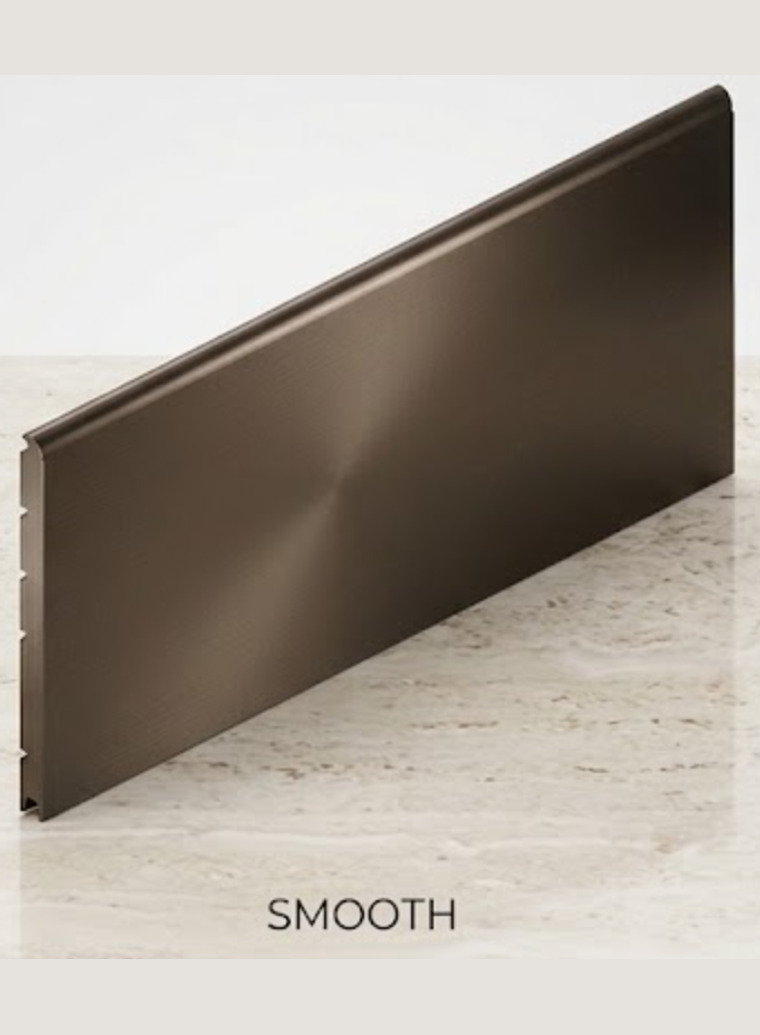
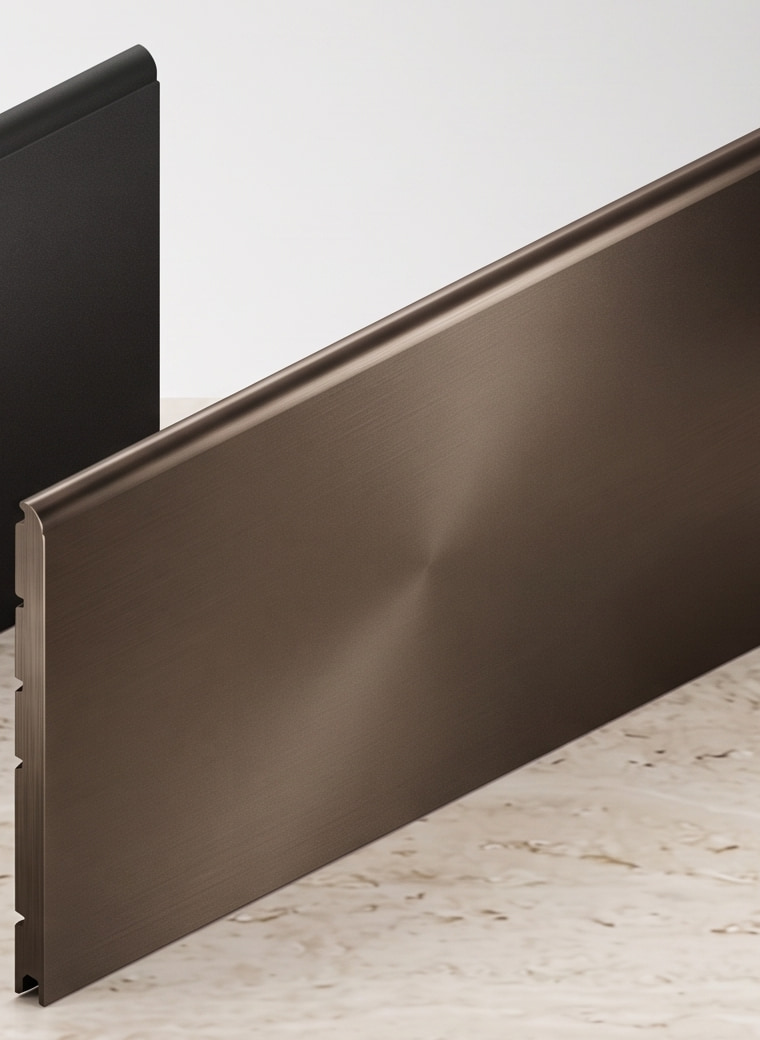
Profilering los van afwerking, 60mm-bug, maatgrenzen per model
Fix: 60 mm was altijd geblokkeerd. Het data-attribuut werd met <%= %>
uitgevoerd, dus de aanhalingstekens kwamen als &#34; in de HTML terecht
en getAttribute gaf "D-GATE terug in plaats van D-GATE U. Nu met <% if %>
geschreven zodat het attribuut klopt.

Profilering (F/L/V) is weer een eigen keuze en stuurt de preview aan.
Afwerking (Smooth/Woodgrain/Deep Mat) is het oppervlak en verandert de
preview bewust niet meer - dat was verwarrend.

Paneelfoto's opnieuw uit panele.png gesneden met identieke kaders van
760x1040 op bronresolutie. De vorige kwamen uit schermafbeeldingen van
543-726 px die naar 760 werden opgeschaald; vandaar de zachte weergave.
Gelijke kaders plus aspect-ratio en object-fit laten de tegels uitlijnen.

Maximale maten per model (T 450x250, B 600x300, U 600x350) zijn nu
onderdeel van het bestelproces: tegels die niet passen bij de ingevulde
maat worden uitgeschakeld, en komt er toch een niet-passende aanvraag
binnen dan staat er een waarschuwing in de aanvraagmail. De aanvraag
wordt niet geweigerd.

Modelrenders op /modellen naar max 480px, de helft van de bronbreedte,
zodat ze op retina-schermen niet zacht ogen.

diff --git a/server.js b/server.js
@@ -7,7 +7,7 @@ const { offerteIntern, offerteBevestiging } = require('./emails');
 
 const app = express();
 const PORT = process.env.PORT || 3000;
-const SITE_VERSION = '1.11.0'; // cache-busting ?v=
+const SITE_VERSION = '1.13.0'; // cache-busting ?v=
 
 app.set('view engine', 'ejs');
 app.set('views', path.join(__dirname, 'views'));
@@ -143,6 +143,7 @@ app.use((req, res, next) => {
 const modellen = [
   {
     slug: 'd-gate-u',
+    maxCm: { breedte: 600, hoogte: 350 }, // grens uit de Drutex-specificatie
     afb: '/img/d-gate-u.jpg',
     detail: '/img/d-gate-u-detail.jpg', // close-up van het veersysteem, verschijnt bij hover
     naam: 'D-GATE U',
@@ -161,6 +162,7 @@ const modellen = [
   },
   {
     slug: 'd-gate-b',
+    maxCm: { breedte: 600, hoogte: 300 }, // grens uit de Drutex-specificatie
     afb: '/img/d-gate-b.jpg',
     detail: '/img/d-gate-b-detail.jpg', // close-up van het veersysteem, verschijnt bij hover
     naam: 'D-GATE B',
@@ -177,6 +179,7 @@ const modellen = [
   },
   {
     slug: 'd-gate-t',
+    maxCm: { breedte: 450, hoogte: 250 }, // grens uit de Drutex-specificatie
     afb: '/img/d-gate-t.jpg',
     detail: '/img/d-gate-t-detail.jpg', // close-up van het veersysteem, verschijnt bij hover
     naam: 'D-GATE T',
@@ -244,10 +247,19 @@ function zoekKleurHex(tekst) {
 // Paneelafwerking volgens de Drutex-brochure: de structuur ís het reliëf.
 // Woodgrain = low embossing, Deep Mat = high embossing, Smooth = zonder reliëf.
 // Daarom één keuze in plaats van twee; `profiel` stuurt de SVG-preview aan.
+// Oppervlak van het paneel — bepaalt hoe het paneel aanvoelt en oogt.
 const AFWERKINGEN = [
-  { naam: 'Smooth', code: 'F', kort: 'Vlak paneel, zonder reliëf', afb: '/img/paneel-glad.jpg', profiel: 'glad' },
-  { naam: 'Woodgrain', code: 'L', kort: 'Fijne houtnerf, laag reliëf', afb: '/img/paneel-woodgrain.jpg', profiel: 'laag' },
-  { naam: 'Deep Mat', code: 'V', kort: 'Diep mat, hoog reliëf', afb: '/img/paneel-deepmat.jpg', profiel: 'hoog' }
+  { naam: 'Smooth', kort: 'Glad oppervlak', afb: '/img/paneel-glad.jpg' },
+  { naam: 'Woodgrain', kort: 'Houtnerfstructuur', afb: '/img/paneel-woodgrain.jpg' },
+  { naam: 'Deep Mat', kort: 'Diep matte structuur', afb: '/img/paneel-deepmat.jpg' }
+];
+
+// Profilering = de groeven in het paneel. Dit is wat je op de deur zíet,
+// dus dit stuurt de preview aan (zie public/js/main.js).
+const PROFILERINGEN = [
+  { naam: 'Zonder profilering', code: 'F', profiel: 'glad' },
+  { naam: 'Lage profilering', code: 'L', profiel: 'laag' },
+  { naam: 'Hoge profilering', code: 'V', profiel: 'hoog' }
 ];
 
 // 60 mm panelen zijn alleen leverbaar op de D-GATE U. `alleenModel` legt dat vast:
@@ -265,7 +277,8 @@ app.get('/kleuren', (req, res) => res.render('kleuren', { kleuren, page: 'kleure
 function toonFormulier(res, { status = 200, fout = null, waarden = {} } = {}) {
   res.status(status).render('offerte', {
     page: 'offerte', verzonden: false, fout, waarden,
-    kleuren, modellen, afwerkingen: AFWERKINGEN, diktes: DIKTES, som: maakSom()
+    kleuren, modellen, afwerkingen: AFWERKINGEN, profileringen: PROFILERINGEN,
+    diktes: DIKTES, som: maakSom()
   });
 }
 
@@ -366,6 +379,7 @@ app.post('/offerte', async (req, res) => {
     model: uitLijst(nette(d.model), modellen.map(m => `${m.naam} (${m.sub.toLowerCase()})`)),
     dikte: uitLijst(nette(d.dikte), DIKTES.map(x => x.naam)),
     afwerking: uitLijst(nette(d.afwerking), AFWERKINGEN.map(a => a.naam)),
+    profilering: uitLijst(nette(d.profilering), PROFILERINGEN.map(p => p.naam)),
     kleur: uitLijst(nette(d.kleur), kleuren.map(k => k.naam)),
     motor: nette(d.motor),
     opmerking: nette(d.opmerking)
@@ -420,13 +434,29 @@ app.post('/offerte', async (req, res) => {
 
   // Extra's voor de e-mail: de hex van de gekozen kleur en het profiel-kenmerk,
   // zodat de mail de deur schematisch kan tekenen.
-  const gekozenAfwerking = AFWERKINGEN.find(a => a.naam === aanvraag.afwerking);
+  // Past het gekozen model bij de opgegeven maat? We weigeren de aanvraag niet —
+  // een lead is te waardevol — maar zetten het er voor onszelf duidelijk bij.
+  let maatWaarschuwing = '';
+  const gekozenModel = modellen.find(m => aanvraag.model.indexOf(m.naam) === 0);
+  if (gekozenModel) {
+    const b = parseInt(aanvraag.breedte, 10);
+    const h = parseInt(aanvraag.hoogte, 10);
+    const teBreed = b > gekozenModel.maxCm.breedte;
+    const teHoog = h > gekozenModel.maxCm.hoogte;
+    if (teBreed || teHoog) {
+      maatWaarschuwing = `De opgegeven maat (${b} × ${h} cm) past niet binnen de ${gekozenModel.naam} ` +
+        `(max ${gekozenModel.maxCm.breedte} × ${gekozenModel.maxCm.hoogte} cm). Neem contact op over een passend model.`;
+    }
+  }
+
+  const gekozenProfiel = PROFILERINGEN.find(p => p.naam === aanvraag.profilering);
   const voorMail = {
     ...aanvraag,
     // "40 mm — Woodgrain": één regel in de mail in plaats van twee losse velden
     paneel: [aanvraag.dikte, aanvraag.afwerking].filter(Boolean).join(' — '),
     kleurHex: zoekKleurHex(aanvraag.kleur),
-    profiel: (gekozenAfwerking || {}).profiel || 'laag'
+    profiel: (gekozenProfiel || {}).profiel || 'hoog',
+    maatWaarschuwing
   };
   const intern = offerteIntern({
     ...voorMail,

diff --git a/public/js/main.js b/public/js/main.js
@@ -74,8 +74,9 @@
       });
     }
 
-    // Paneelafwerking bepaalt het reliëf op de preview
-    // (Smooth = geen groeven, Woodgrain = laag, Deep Mat = hoog)
+    // De profilering (F / L / V) bepaalt de groeven op de preview.
+    // De afwerking (Smooth / Woodgrain / Deep Mat) is het oppervlak en
+    // verandert de preview bewust niet.
     function zetProfiel(profiel) {
       document.querySelectorAll('.profiel-hoog').forEach(function (g) {
         g.style.display = profiel === 'hoog' ? '' : 'none';
@@ -85,9 +86,46 @@
       });
     }
 
-    offerteForm.querySelectorAll('.afwerking-tegel').forEach(function (t) {
-      t.addEventListener('click', function () { zetProfiel(t.dataset.profiel); });
+    offerteForm.querySelectorAll('.profiel-knop').forEach(function (t) {
+      t.addEventListener('click', function () {
+        offerteForm.querySelectorAll('.profiel-knop').forEach(function (x) { x.classList.remove('actief'); });
+        t.classList.add('actief');
+        zetProfiel(t.dataset.profiel);
+      });
     });
+
+    // Elk model heeft een maximale maat. Vult iemand een grotere opening in,
+    // dan markeren we de modellen die dat niet halen — zodat de aanvraag klopt.
+    var breedteVeld = offerteForm.querySelector('input[name="breedte"]');
+    var hoogteVeld = offerteForm.querySelector('input[name="hoogte"]');
+    var modelTegels = offerteForm.querySelectorAll('.model-tegel[data-max-breedte]');
+
+    function toetsMaten() {
+      var b = parseInt(breedteVeld && breedteVeld.value, 10);
+      var h = parseInt(hoogteVeld && hoogteVeld.value, 10);
+      modelTegels.forEach(function (tegel) {
+        var maxB = parseInt(tegel.dataset.maxBreedte, 10);
+        var maxH = parseInt(tegel.dataset.maxHoogte, 10);
+        var telaag = (b > 0 && b > maxB) || (h > 0 && h > maxH);
+        tegel.classList.toggle('niet-mogelijk', telaag);
+        var melding = tegel.querySelector('.model-tegroot');
+        if (melding) melding.hidden = !telaag;
+        var radio = tegel.querySelector('input[name="model"]');
+        if (radio) {
+          radio.disabled = telaag;
+          // stond dit model aangevinkt maar past het niet meer? dan terug naar "weet ik nog niet"
+          if (telaag && radio.checked) {
+            radio.checked = false;
+            var geen = offerteForm.querySelector('.model-tegel-geen input');
+            if (geen) geen.checked = true;
+          }
+        }
+      });
+    }
+
+    if (breedteVeld) breedteVeld.addEventListener('input', toetsMaten);
+    if (hoogteVeld) hoogteVeld.addEventListener('input', toetsMaten);
+    toetsMaten();
 
     // 60 mm panelen bestaan alleen op de D-GATE U.
     // Kiest iemand 60 mm, dan vinken we dat model meteen aan; kiest iemand een
@@ -144,8 +182,8 @@
       tegel.classList.add('actief');
       zetKleur(tegel.dataset.hex, tegel.dataset.naam);
     }
-    var gekozenAfwerking = offerteForm.querySelector('.afwerking-tegel input:checked');
-    if (gekozenAfwerking) zetProfiel(gekozenAfwerking.closest('.afwerking-tegel').dataset.profiel);
+    var gekozenProfiel = offerteForm.querySelector('.profiel-knop input:checked');
+    if (gekozenProfiel) zetProfiel(gekozenProfiel.closest('.profiel-knop').dataset.profiel);
   }
 
   // Model prefill via ?model= op de offertepagina (link vanaf /modellen).

diff --git a/public/css/style.css b/public/css/style.css
@@ -362,11 +362,10 @@ a { color: inherit; }
 .pagina-intro { color: var(--inkt-zacht); font-size: 1.1rem; max-width: 64ch; }
 
 .model-detail-lijst { display: grid; gap: 1.4rem; }
-.model-detail-beeld { margin: 0 0 1.4rem; }
-.model-detail-beeld img {
-  display: block; width: 100%; height: auto;
-  background: #fff; border: 1px solid var(--lijn); border-radius: 10px;
-}
+/* De bronrenders zijn 960 px breed. Groter tonen dan 480 px betekent op een
+   retina-scherm minder dan 1 bronpixel per schermpixel — dan oogt het zacht.
+   Daarom cappen we de weergavebreedte op de helft van de bron. */
+.model-detail-beeld { margin: 0 0 1.4rem; max-width: 480px; }
 .model-detail-beeld figcaption {
   font-size: 0.82rem; color: var(--inkt-zacht);
   margin-top: 0.5rem; text-align: center;
@@ -543,10 +542,35 @@ a { color: inherit; }
   border-color: var(--accent-diep); background: var(--papier);
   box-shadow: 0 0 0 2px rgba(217, 127, 26, 0.25);
 }
+/* vaste verhouding + cover: de drie tegels lijnen altijd uit,
+   ook als een bronfoto ooit een ander formaat heeft */
 .offerte-form .afwerking-tegel img {
   display: block; width: 100%; height: auto; margin-bottom: 0.4rem;
+  aspect-ratio: 76 / 104; object-fit: cover;
   border-radius: 8px; background: var(--wit);
 }
+.afwerking-rooster { align-items: stretch; }
+.offerte-form .afwerking-tegel {
+  display: flex; flex-direction: column;
+}
+.afwerking-kort { margin-top: auto; }
+
+/* profileringkeuze (F / L / V) — stuurt de preview aan */
+.offerte-form .profiel-knop {
+  position: relative; display: inline-block; margin-bottom: 0;
+  padding: 0.55rem 1rem; border: 1.5px solid var(--lijn); border-radius: 999px;
+  background: var(--wit); cursor: pointer;
+  font-size: 0.86rem; font-weight: 600; color: var(--inkt); transition: 0.15s;
+}
+.offerte-form .profiel-knop input {
+  position: absolute; opacity: 0; width: 1px; height: 1px; pointer-events: none;
+}
+.offerte-form .profiel-knop:hover { border-color: var(--accent-diep); }
+.offerte-form .profiel-knop:has(input:checked),
+.offerte-form .profiel-knop.actief {
+  border-color: var(--accent-diep); background: var(--accent); color: var(--antraciet);
+}
+.offerte-form .profiel-knop .afwerking-code { background: rgba(35, 38, 42, 0.12); }
 .afwerking-naam { display: block; font-size: 0.85rem; font-weight: 700; color: var(--inkt); }
 .afwerking-code {
   display: inline-block; font-size: 0.66rem; font-weight: 800;
@@ -761,4 +785,12 @@ a { color: inherit; }
   font-size: 0.83rem; line-height: 1.45; color: var(--accent-diep);
   background: rgba(242, 163, 60, 0.12); border-radius: 8px;
   padding: 0.5rem 0.75rem; margin: -0.5rem 0 1rem;
+}
+
+/* modeltegel die niet past bij de ingevulde maat */
+.offerte-form .model-tegel.niet-mogelijk { opacity: 0.45; cursor: not-allowed; }
+.offerte-form .model-tegel.niet-mogelijk:hover { border-color: var(--lijn); }
+.model-tegroot {
+  display: block; margin-top: 0.4rem; font-size: 0.72rem; font-weight: 700;
+  color: #a3402c; background: #f9e8e4; border-radius: 6px; padding: 0.25rem 0.45rem;
 }

diff --git a/emails.js b/emails.js
@@ -282,6 +282,14 @@ function offerteIntern(a) {
       ['Postcode', a.postcode]
     ])}
 
+    ${heeft(a.maatWaarschuwing) ? `
+    <table role="presentation" width="100%" cellpadding="0" cellspacing="0" border="0" bgcolor="#fdf0e6" style="background-color:#fdf0e6;border:1px solid ${KLEUR.accent};border-radius:10px;margin:0 0 6px;">
+      <tr><td style="padding:13px 16px;font-family:${FONT};font-size:14px;line-height:21px;color:${KLEUR.inkt};">
+        <strong style="color:${KLEUR.accentDiep};">Let op &mdash; maat past niet bij het gekozen model</strong><br>
+        ${esc(a.maatWaarschuwing)}
+      </td></tr>
+    </table>` : ''}
+
     ${sectieKop('Gewenste deur')}
     ${deurBlok(a, { compact: true })}
     ${lijst([
